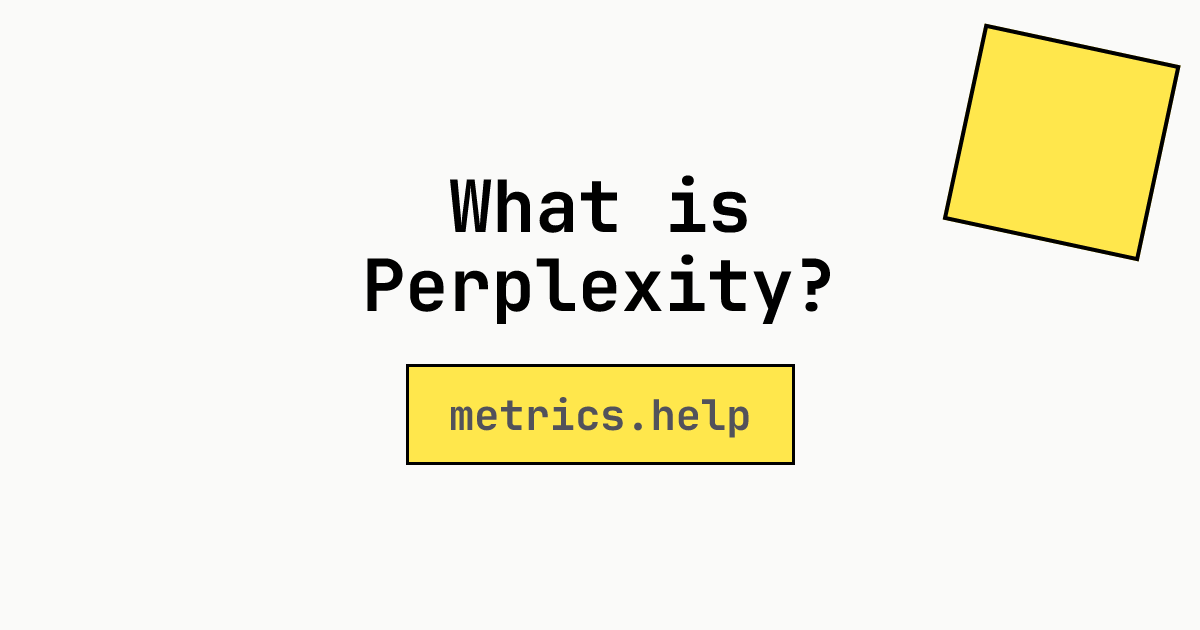
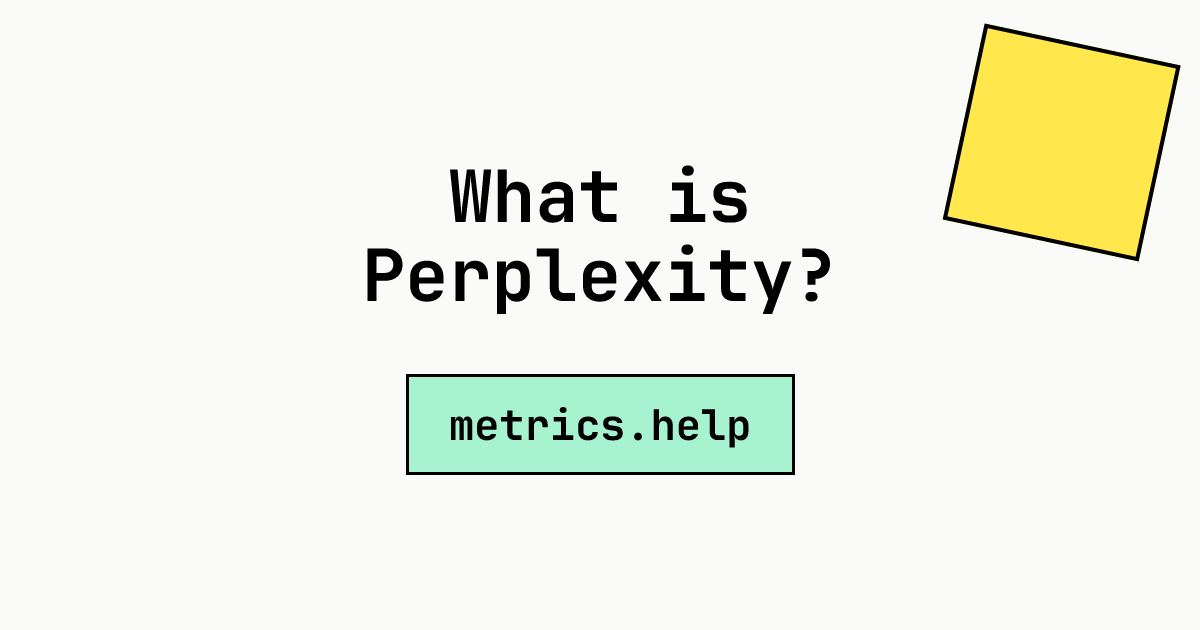
og image update and minor design tweaks

Changed region(s): [[0.3083, 0.2714, 0.7092, 0.5127], [0.3392, 0.573, 0.6783, 0.754]]

diff --git a/scripts/generate-og-images.js b/scripts/generate-og-images.js
@@ -10,9 +10,14 @@ import React from 'react';
 
 const __dirname = dirname(fileURLToPath(import.meta.url));
 
-// Fetch JetBrains Mono font
+// Fetch fonts
 const monoFontData = await fetch(
   'https://github.com/JetBrains/JetBrainsMono/raw/master/fonts/ttf/JetBrainsMono-Bold.ttf'
+).then((res) => res.arrayBuffer());
+
+// Using a sans font from a CDN that provides compatible font formats
+const sansFontData = await fetch(
+  'https://fonts.gstatic.com/s/inter/v13/UcCO3FwrK3iLTeHuS_fvQtMwCp50KnMw2boKoduKmMEVuI6fMZhrib2Bg-4.ttf'
 ).then((res) => res.arrayBuffer());
 
 async function generateOGImage(title, type = 'metric') {
@@ -67,10 +72,10 @@ async function generateOGImage(title, type = 'metric') {
               fontWeight: '900',
               color: '#000',
               textAlign: 'center',
-              marginBottom: '40px',
+              marginBottom: '60px',
               lineHeight: '1.1',
               letterSpacing: type === 'home' ? '-0.02em' : '0',
-              fontFamily: '"JetBrains Mono", monospace',
+              fontFamily: type === 'home' ? '"Inter", sans-serif' : '"JetBrains Mono", monospace',
             }
           }, title),
           React.createElement('div', {
@@ -78,9 +83,9 @@ async function generateOGImage(title, type = 'metric') {
             style: {
               fontSize: '42px',
               fontWeight: '700',
-              color: '#52525B',
+              color: '#000',
               textAlign: 'center',
-              backgroundColor: bgColor,
+              backgroundColor: '#A7F3D0',
               padding: '20px 40px',
               border: '3px solid #000',
             }
@@ -91,7 +96,14 @@ async function generateOGImage(title, type = 'metric') {
     {
       width: 1200,
       height: 630,
-      fonts: [
+      fonts: type === 'home' ? [
+        {
+          name: 'Inter',
+          data: sansFontData,
+          style: 'normal',
+          weight: 900,
+        },
+      ] : [
         {
           name: 'JetBrains Mono',
           data: monoFontData,
@@ -114,7 +126,7 @@ async function main() {
   // Generate homepage OG image
   console.log('Generating homepage OG image...');
   const homepageImage = await generateOGImage(
-    'Simple, visual explanations for ML metrics & algorithms',
+    'Machine learning metrics explained',
     'home'
   );
   const homepageBuffer = Buffer.from(await homepageImage.arrayBuffer());

diff --git a/index.html b/index.html
@@ -7,21 +7,21 @@
     <title>metrics.help</title>
 
     <!-- Primary Meta Tags -->
-    <meta name="title" content="metrics.help - Visual ML Metrics Guide">
-    <meta name="description" content="Simple, visual explanations for machine learning metrics and algorithms. Focus on LLM fine-tuning and reinforcement learning.">
+    <meta name="title" content="metrics.help - ML Metrics Guide">
+    <meta name="description" content="Machine learning metrics and algorithms, explained. Focus on LLM fine-tuning and reinforcement learning.">
 
     <!-- Open Graph / Facebook -->
     <meta property="og:type" content="website">
     <meta property="og:url" content="https://metrics.help/">
-    <meta property="og:title" content="metrics.help - Visual ML Metrics Guide">
-    <meta property="og:description" content="Simple, visual explanations for machine learning metrics and algorithms. Focus on LLM fine-tuning and reinforcement learning.">
+    <meta property="og:title" content="metrics.help - ML Metrics Guide">
+    <meta property="og:description" content="Machine learning metrics and algorithms, explained. Focus on LLM fine-tuning and reinforcement learning.">
     <meta property="og:image" content="https://metrics.help/og/home.png">
 
     <!-- Twitter -->
     <meta property="twitter:card" content="summary_large_image">
     <meta property="twitter:url" content="https://metrics.help/">
-    <meta property="twitter:title" content="metrics.help - Visual ML Metrics Guide">
-    <meta property="twitter:description" content="Simple, visual explanations for machine learning metrics and algorithms. Focus on LLM fine-tuning and reinforcement learning.">
+    <meta property="twitter:title" content="metrics.help - ML Metrics Guide">
+    <meta property="twitter:description" content="Machine learning metrics and algorithms, explained. Focus on LLM fine-tuning and reinforcement learning.">
     <meta property="twitter:image" content="https://metrics.help/og/home.png">
     <!-- Single Page Apps for GitHub Pages -->
     <script type="text/javascript">

diff --git a/src/pages/LandingPage.jsx b/src/pages/LandingPage.jsx
@@ -4,10 +4,10 @@ import LogAnalyzer from '../components/LogAnalyzer';
 
 const LandingPage = ({ metrics }) => (
     <div className="animate-in fade-in pt-16 pb-20 px-4 md:px-6 max-w-7xl mx-auto overflow-x-hidden">
-        <header className="mb-20 relative overflow-hidden">
+        <header className="mb-20 relative">
             {/* Decorative Elements */}
             <div className="absolute -top-10 right-0 w-32 h-32 bg-accent-yellow border-2 border-black shadow-[8px_8px_0px_0px_rgba(0,0,0,1)] rotate-12 hidden md:block"></div>
-            <div className="absolute top-20 -left-10 w-16 h-16 bg-accent-pink border-2 border-black rounded-full shadow-[4px_4px_0px_0px_rgba(0,0,0,1)] hidden md:block"></div>
+            <div className="absolute top-2 -left-6 w-12 h-12 bg-accent-pink border-2 border-black rounded-full shadow-[4px_4px_0px_0px_rgba(0,0,0,1)] hidden md:block"></div>
 
             <div className="relative z-10 max-w-6xl">
                 <div className="inline-block bg-accent-cyan border-2 border-black px-4 py-2 font-black uppercase tracking-wider text-sm mb-8 shadow-[4px_4px_0px_0px_rgba(0,0,0,1)]">
@@ -21,7 +21,7 @@ const LandingPage = ({ metrics }) => (
                         </span>
                     </h1>
                     <p className="text-xl md:text-2xl text-text-muted font-medium max-w-md leading-relaxed border-l-4 md:border-l-8 border-accent-yellow pl-4 md:pl-6 mb-2">
-                        Simple, visual explanations for your machine learning training runs.
+                        Machine learning metrics and algorithms, explained.
                     </p>
                 </div>
             </div>

diff --git a/src/components/Sidebar.jsx b/src/components/Sidebar.jsx
@@ -2,10 +2,9 @@ import React from 'react';
 import { Link, useLocation } from 'react-router-dom';
 import { Activity, Github, Info, ChevronLeft, ChevronRight, Menu, X } from 'lucide-react';
 
-const Sidebar = ({ metrics, algorithms, onShowCredits }) => {
+const Sidebar = ({ metrics, algorithms, onShowCredits, isCollapsed, onToggleCollapse }) => {
     const location = useLocation();
     const [openSection, setOpenSection] = React.useState('algorithms');
-    const [isCollapsed, setIsCollapsed] = React.useState(false);
     const [isMobileMenuOpen, setIsMobileMenuOpen] = React.useState(false);
 
     // Auto-expand section based on URL
@@ -170,7 +169,7 @@ const Sidebar = ({ metrics, algorithms, onShowCredits }) => {
             <aside className={`hidden md:flex flex-col fixed h-full bg-surface border-r-2 border-black z-10 transition-all duration-300 ${isCollapsed ? 'w-16' : 'w-64'}`}>
                 {/* Collapse/Expand Button */}
                 <button
-                    onClick={() => setIsCollapsed(!isCollapsed)}
+                    onClick={() => onToggleCollapse(!isCollapsed)}
                     className="absolute -right-3 top-24 bg-accent-yellow border-2 border-black p-1 shadow-[2px_2px_0px_0px_rgba(0,0,0,1)] hover:shadow-[4px_4px_0px_0px_rgba(0,0,0,1)] hover:-translate-x-0.5 transition-all z-20"
                     title={isCollapsed ? 'Expand sidebar' : 'Collapse sidebar'}
                 >

diff --git a/src/App.jsx b/src/App.jsx
@@ -13,6 +13,7 @@ const algorithms = getAlgorithms();
 
 function App() {
   const [showCredits, setShowCredits] = React.useState(false);
+  const [isSidebarCollapsed, setIsSidebarCollapsed] = React.useState(false);
 
   return (
     <Router>
@@ -23,8 +24,10 @@ function App() {
             metrics={metrics}
             algorithms={algorithms}
             onShowCredits={() => setShowCredits(true)}
+            isCollapsed={isSidebarCollapsed}
+            onToggleCollapse={setIsSidebarCollapsed}
           />
-          <main className="flex-1 md:ml-64 min-h-screen w-full overflow-x-hidden">
+          <main className={`flex-1 min-h-screen w-full overflow-x-hidden transition-all duration-300 ${isSidebarCollapsed ? 'md:ml-16' : 'md:ml-64'}`}>
             <Routes>
               <Route path="/" element={<LandingPage metrics={metrics} />} />
               <Route path="/metric/:id" element={<MetricDetail metrics={metrics} />} />

diff --git a/README.md b/README.md
@@ -1,6 +1,6 @@
 # metrics.help
 
-Simple, visual explanations for machine learning metrics and algorithms.
+Machine learning metrics and algorithms, explained.
 
 ## What is this?
 
